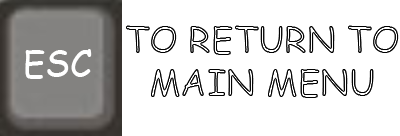
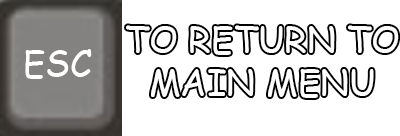
added esc button

Changed region(s): [[0.3, 0.1471, 1.0, 0.4412], [0.36, 0.4706, 0.96, 0.7353]]

diff --git a/src/GameFiles/TopDownView.java b/src/GameFiles/TopDownView.java
@@ -36,6 +36,8 @@ public class TopDownView extends View{
      */
 	BufferedImage background = createImage();
 	
+	BufferedImage escKey = createEsc();
+	
 	/**
      * static array of CR images for tracking lives
      */
@@ -99,7 +101,7 @@ public class TopDownView extends View{
 			  for (int i = 0; i < ClapperRail.lives; i++) { 
 				  g.drawImage(createLives(), View.frame.getWidth() - 100*(i+1), 0, 100, 100, this); 
 			  }
-			 
+			 g.drawImage(escKey, 0, frame.getHeight()-100,250,100,this);
 			
 	
 		}
@@ -138,6 +140,22 @@ public class TopDownView extends View{
 		}
 		return null;
 	}
+	/**
+	 * creates buffered image for esc button
+	 * @return BufferedImage
+	 */
+	private BufferedImage createEsc(){
+		BufferedImage bufferedImage;
+		try {
+			bufferedImage = ImageIO.read(new File(Constants.IMG_ESC_KEY));
+			return bufferedImage;
+		} catch (IOException e) {
+			e.printStackTrace();
+		}
+		return null;
+	}
+	
+	
 
 	/**
 	 * 

diff --git a/src/GameFiles/Constants.java b/src/GameFiles/Constants.java
@@ -220,6 +220,7 @@ public class Constants implements Serializable {
 	public final static String IMG_RIGHT_KEY_4 = "img/right/right_4.png";
 	public final static String IMG_RIGHT_KEY_5 = "img/right/right_5.png";
 	public final static String IMG_RIGHT_KEY_6 = "img/right/right_6.png";
+	public final static String IMG_ESC_KEY = "img/esc.png";
 	public final static String IMG_SELECT_CLAPPER_RAIL = "img/selectCR.png";
 	public final static String IMG_SELECT_OSPREY = "img/selectOsprey.png";
 	public final static String IMG_SELECTION_VIEW_BG = "img/estuary_meadow_with_river.png";
